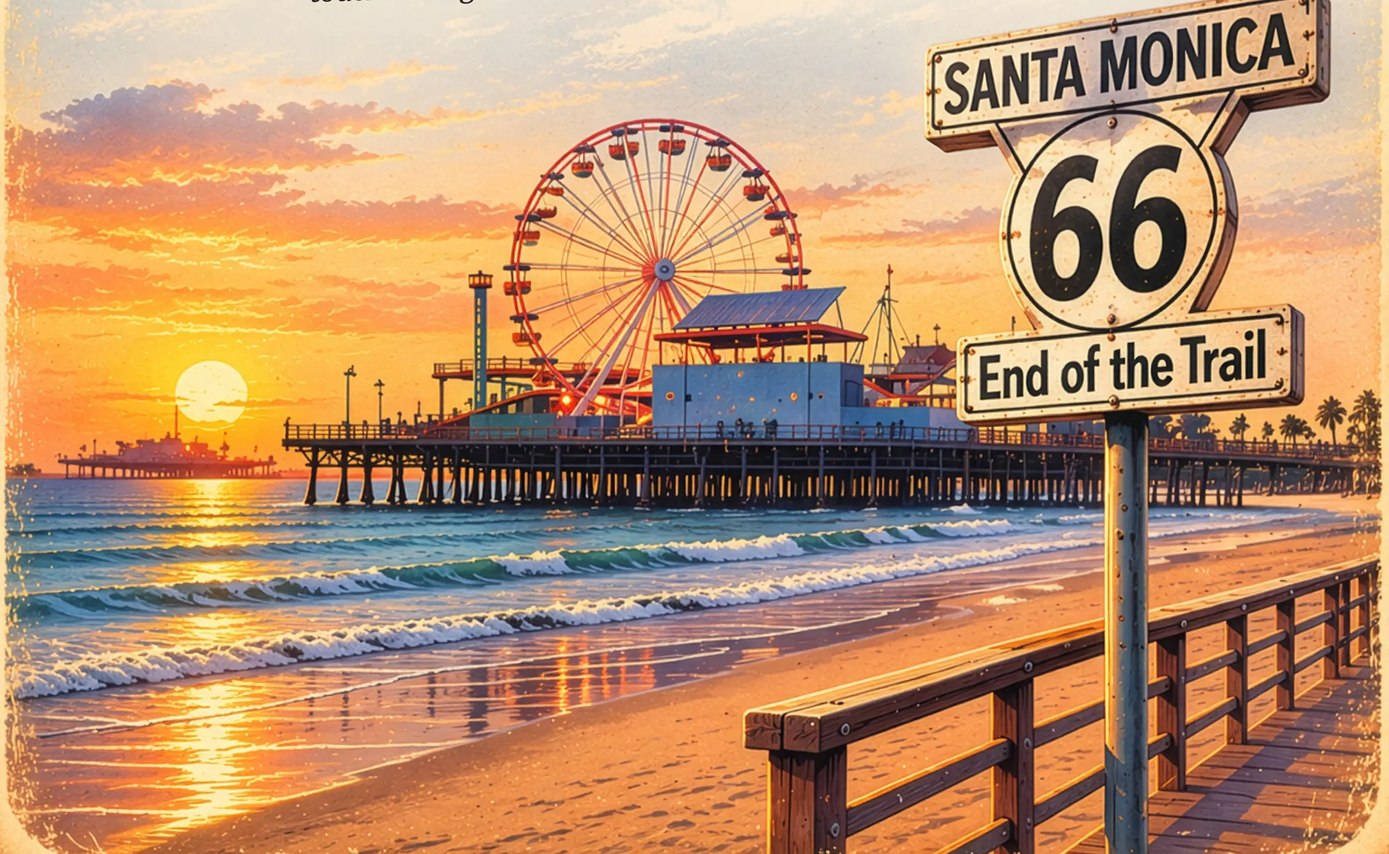
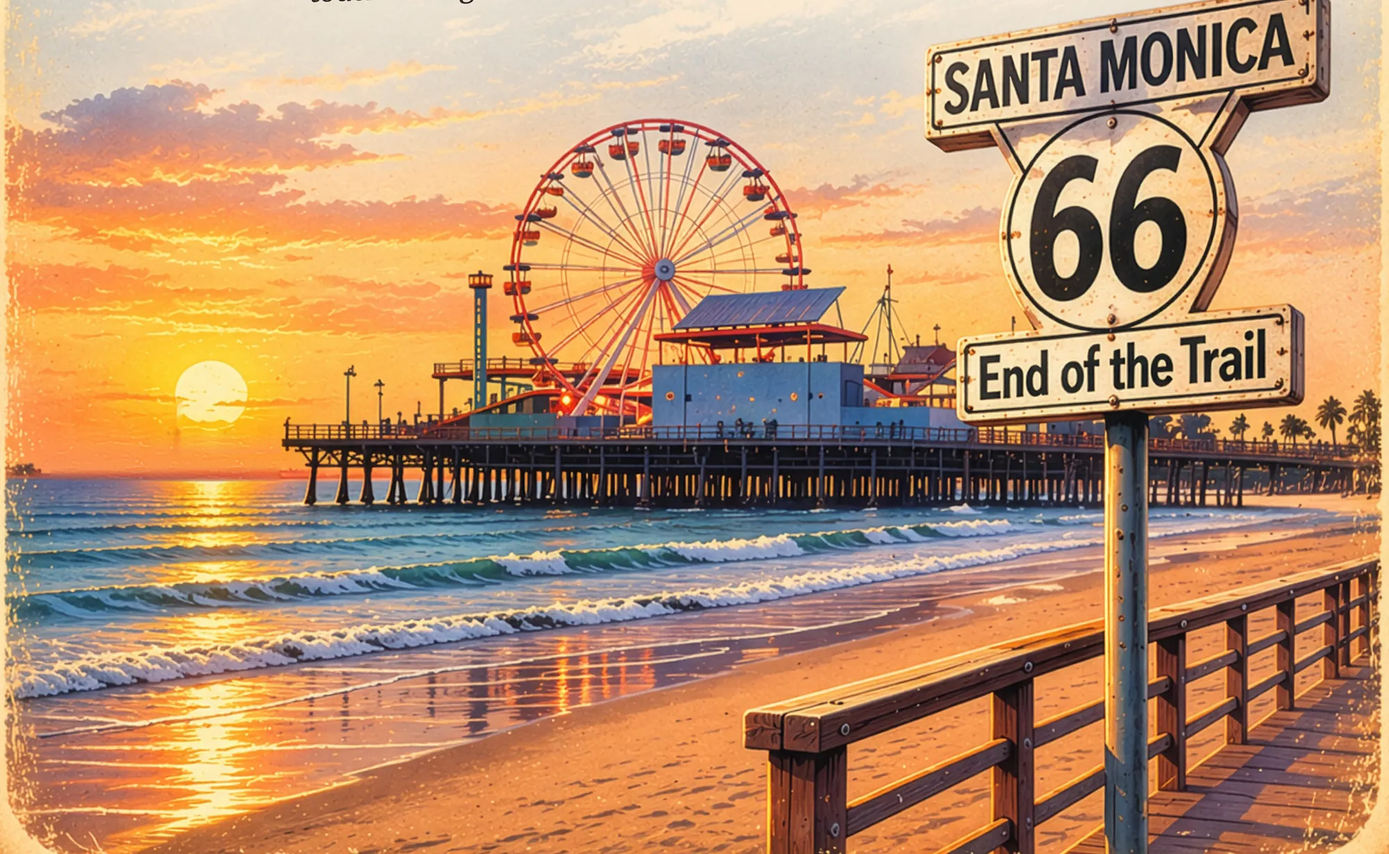
Santa Monica sunset: remove the extra pier on the horizon
Mike, 12 Nov 2026. The brochure's page-10 art has a second, made-up pier
left of the sun; painted out by tools/fix-santamonica-pier.py and the
web crops rebuilt from the cleaned page.

Claude-Session: https://claude.ai/code/session_01KAp1Uxxnky5gjoDYBsHWdd

Changed region(s): [[0.031, 0.4638, 0.217, 0.5875]]

diff --git a/tools/fix-santamonica-pier.py b/tools/fix-santamonica-pier.py
@@ -1,0 +1,36 @@
+#!/usr/bin/env python3
+"""fix-santamonica-pier.py — paint out the second, made-up pier on the horizon in the
+brochure's Santa Monica sunset (page 10). Mike, 12 Nov 2026: "an additional pier out in the
+ocean that needs to go". Coordinates are for the 3264 px wide page export.
+
+Usage: python3 tools/fix-santamonica-pier.py p10.png p10-clean.png
+brochure-crops.py uses p10-clean.png for the Santa Monica image when it exists.
+"""
+import cv2, numpy as np, sys
+src,dst=sys.argv[1],sys.argv[2]
+img=cv2.imread(src).astype(np.float32)
+ox,oy=40,3050
+out=img.copy()
+X0,X1=ox+108,ox+640
+Y0,Y1=oy+138,oy+254
+sm=cv2.GaussianBlur(img,(0,0),6)
+P=sm[Y0-6, X0:X1]                      # sky profile just above the patch (carries the sun glow)
+P0,P1=P[0],P[-1]
+t=np.linspace(0,1,X1-X0)[:,None]
+for y in range(Y0,Y1):
+    L=sm[y,X0-4]
+    dL=L-P0
+    if y < oy+190: dR=dL               # main pier railing/deck sits right of the patch on these rows
+    else: dR=sm[y,X1+4]-P1
+    k=min(1,(y-Y0)/((Y1-Y0)*0.55))     # glow profile fades out toward the horizon
+    flat=L*(1-t)+(sm[y,X1+4] if y>=oy+190 else L)*t
+    prof=P+dL*(1-t)+dR*t
+    out[y,X0:X1]=prof*(1-k)+flat*k
+ref=img[oy+40:oy+120, ox+150:ox+380]; g=ref-cv2.GaussianBlur(ref,(0,0),3)
+H,W=Y1-Y0,X1-X0; out[Y0:Y1,X0:X1]+=np.tile(g,(H//g.shape[0]+1,W//g.shape[1]+1,1))[:H,:W]
+mask=np.zeros(img.shape[:2],np.float32); mask[Y0:Y1,X0:X1]=1
+mask=cv2.GaussianBlur(mask,(0,0),6)[...,None]
+out=np.clip(img*(1-mask)+out*mask,0,255).astype(np.uint8)
+m=np.zeros(out.shape[:2],np.uint8); cv2.rectangle(m,(ox+386,oy+66),(ox+414,oy+142),255,-1)
+out=cv2.inpaint(out,m,12,cv2.INPAINT_NS)
+cv2.imwrite(dst,out)

diff --git a/tools/brochure-crops.py b/tools/brochure-crops.py
@@ -34,7 +34,10 @@ CROPS = {
 }
 
 for slug, (page, (a, b, c, d), widths, feather) in CROPS.items():
-    im = Image.open(os.path.join(SRC, f'p{page}.png')).convert('RGB')
+    path = os.path.join(SRC, f'p{page}.png')
+    if slug == 'santamonica' and os.path.exists(os.path.join(SRC, 'p10-clean.png')):
+        path = os.path.join(SRC, 'p10-clean.png')   # extra pier removed (fix-santamonica-pier.py)
+    im = Image.open(path).convert('RGB')
     W, H = im.size
     crop = im.crop((round(a * W), round(b * H), round(c * W), round(d * H)))
     if feather:  # soft oval edge so the card sits on the page's own parchment
